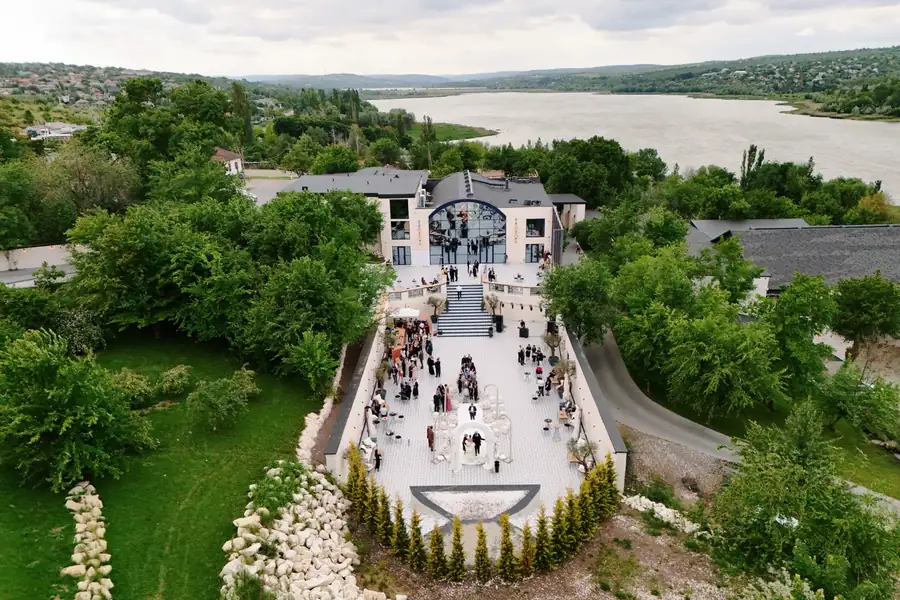
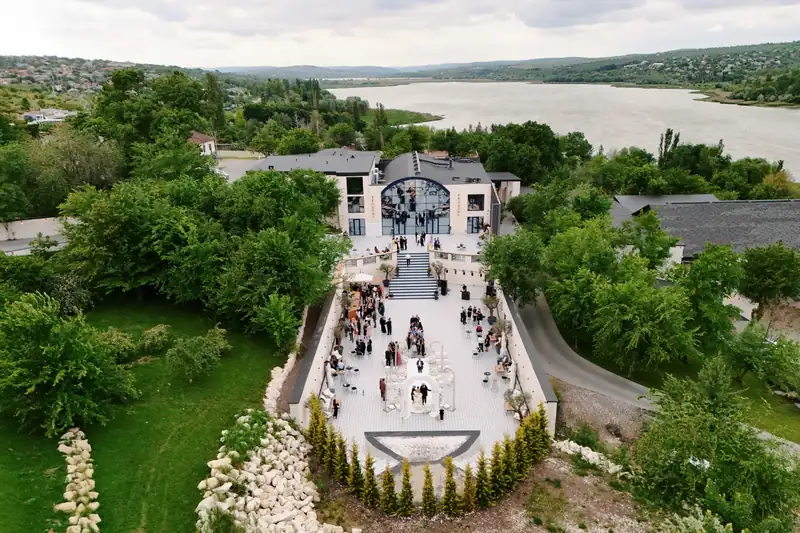
Poze WebP

diff --git a/client/src/App.jsx b/client/src/App.jsx
@@ -1,22 +1,22 @@
 import { useEffect, useState } from 'react';
 import mark from './assets/logo-mark.svg';
 import logoDark from './assets/logo-dark.svg';
-import f1 from './assets/foto1.jpg';
-import f2 from './assets/foto2.jpg';
-import f3 from './assets/foto3.jpg';
-import f4 from './assets/foto4.jpg';
-import f5 from './assets/foto5.jpg';
-import f6 from './assets/foto6.jpg';
-import f7 from './assets/foto7.jpg';
-import f8 from './assets/foto8.jpg';
-import f9 from './assets/foto9.jpg';
-import f10 from './assets/foto10.jpg';
-import f11 from './assets/foto11.jpg';
-import f12 from './assets/foto12.jpg';
-import f13 from './assets/foto13.jpg';
-import m1 from './assets/meniu1.jpg';
-import m2 from './assets/meniu2.jpg';
-import m3 from './assets/meniu3.jpg';
+import f1 from './assets/foto1.webp';
+import f2 from './assets/foto2.webp';
+import f3 from './assets/foto3.webp';
+import f4 from './assets/foto4.webp';
+import f5 from './assets/foto5.webp';
+import f6 from './assets/foto6.webp';
+import f7 from './assets/foto7.webp';
+import f8 from './assets/foto8.webp';
+import f9 from './assets/foto9.webp';
+import f10 from './assets/foto10.webp';
+import f11 from './assets/foto11.webp';
+import f12 from './assets/foto12.webp';
+import f13 from './assets/foto13.webp';
+import m1 from './assets/meniu1.webp';
+import m2 from './assets/meniu2.webp';
+import m3 from './assets/meniu3.webp';
 import { CHEIE_FORMULAR, contact, servicii, motive, meniu, pacheteImplicite } from './content.js';
 import Rezervare from './Rezervare.jsx';
 
@@ -49,7 +49,6 @@ export default function App() {
     if (!CHEIE_FORMULAR) fetch('/api/pachete').then((r) => (r.ok ? r.json() : Promise.reject()))
       .then((d) => Array.isArray(d) && d.length && setPachete(d)).catch(() => {});
     const onScroll = () => setSolid(window.scrollY > 60);
-    onScroll();
     window.addEventListener('scroll', onScroll, { passive: true });
     return () => window.removeEventListener('scroll', onScroll);
   }, []);
@@ -90,7 +89,7 @@ export default function App() {
               <p className="lead">Ziua nunții este una dintre cele mai frumoase din viață. La Largo Event Park ne ocupăm de fiecare detaliu, pentru ca voi să vă puteți bucura de emoții, de cei dragi și unul de celălalt.</p>
               <p className="muted">Ascultăm povestea voastră, înțelegem ce vă doriți și transformăm totul într-un eveniment care vă reprezintă: elegant, bine organizat și plin de momente de neuitat.</p>
             </div>
-            <img className="foto foto--inalt" src={f4} alt="Sala de bal cu candelabru de cristal și mese aranjate" loading="lazy" />
+            <img className="foto foto--inalt" src={f4} alt="Sala de bal cu candelabru de cristal și mese aranjate" loading="lazy" decoding="async" />
           </div>
         </section>
 
@@ -108,7 +107,7 @@ export default function App() {
 
         <section className="sec">
           <div className="wrap split split--inv">
-            <img className="foto" src={f7} alt="Arcadă albă de ceremonie cu flori și pufuri verzi" loading="lazy" />
+            <img className="foto" src={f7} alt="Arcadă albă de ceremonie cu flori și pufuri verzi" loading="lazy" decoding="async" />
             <div>
               <p className="eyebrow">De ce să ne alegeți</p>
               <h2>Liniștea că totul este pe mâini bune</h2>
@@ -122,7 +121,7 @@ export default function App() {
             <p className="eyebrow">Galerie</p>
             <h2>Același loc, de fiecare dată altă poveste</h2>
             <div className="galerie__grid">
-              {galerie.map(([src, alt, forma]) => <img key={src} className={forma} src={src} alt={alt} loading="lazy" />)}
+              {galerie.map(([src, alt, forma]) => <img key={src} className={forma} src={src} alt={alt} loading="lazy" decoding="async" />)}
             </div>
           </div>
         </section>
@@ -151,9 +150,9 @@ export default function App() {
             <p className="eyebrow">Meniu</p>
             <h2>Un meniu ales la masă, nu de pe hârtie</h2>
             <div className="meniu__foto">
-              <img src={m1} alt="Masă festivă cu aperitive reci și aranjamente florale roz" loading="lazy" />
-              <img src={m2} alt="Platouri cu somon, creveți, salate și antreuri" loading="lazy" />
-              <img src={m3} alt="Bruschete și gustări la bufetul de întâmpinare" loading="lazy" />
+              <img src={m1} alt="Masă festivă cu aperitive reci și aranjamente florale roz" loading="lazy" decoding="async" />
+              <img src={m2} alt="Platouri cu somon, creveți, salate și antreuri" loading="lazy" decoding="async" />
+              <img src={m3} alt="Bruschete și gustări la bufetul de întâmpinare" loading="lazy" decoding="async" />
             </div>
             <div className="meniu__grid">
               {meniu.map((c) => (
